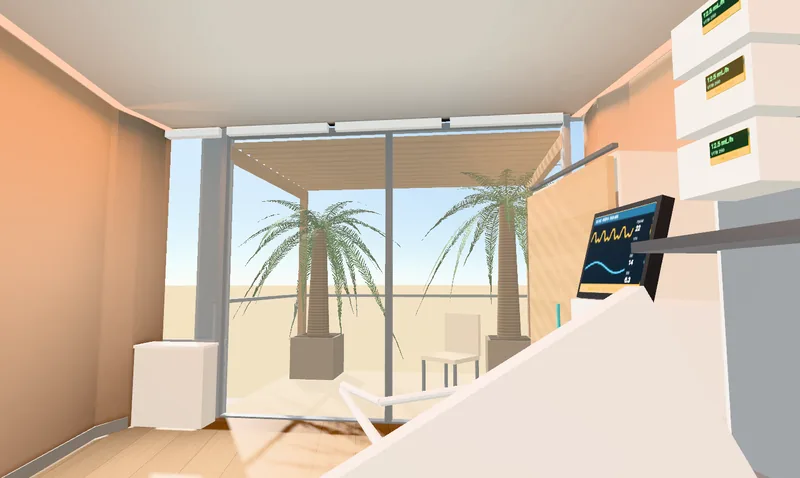
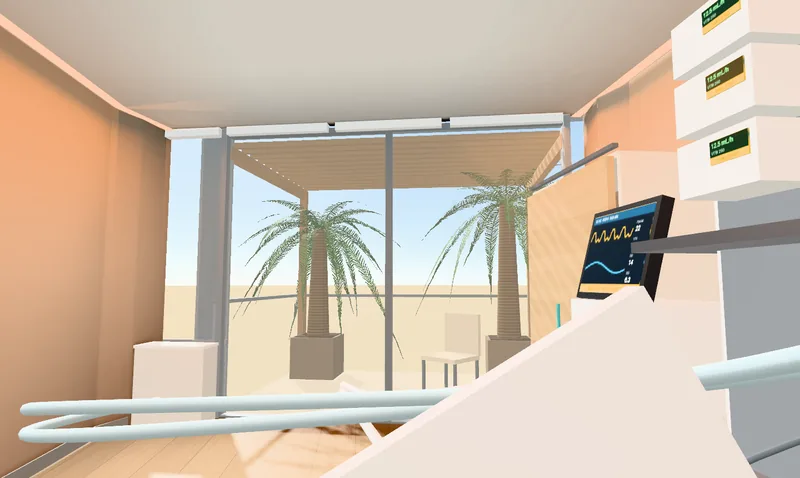
Keep the wall comfort control when the grilles are hidden
The ventilation add-on built the ceiling grilles and the wall "Room comfort
control" together, so hiding the grilles took the control away too. That
left the Comfort systems temperature demo tinting a light nobody could see,
and PACS without its environmental-control connection point.

The control is now its own add-on, shown in every room and not an option.
PACS and the temperature demo look for it there. 08 checks it's present
while the grilles stay hidden, and that the demo still tints it.

The home page's room shots now include the teammate's patient figure, so
their alt text says so.

Changed region(s): [[0.0, 0.7908, 0.5625, 0.9372], [0.8438, 0.7029, 1.0, 0.8201], [0.9375, 0.9079, 1.0, 0.9665]]

diff --git a/index.html b/index.html
@@ -115,15 +115,15 @@
     </div>
     <div class="plates">
       <figure class="plate full">
-        <a href="configurator/#c=1004415101110000001000030000000000010"><img src="assets/img/config-desert-1440.webp" srcset="assets/img/config-desert-800.webp 800w, assets/img/config-desert-1400.webp 1400w, assets/img/config-desert-1440.webp 1440w" sizes="100vw" width="1440" height="860" alt="The room configurator showing an isolation room at night in the Desert Sanctuary theme: warm cove light around the ceiling, a mashrabiya feature wall and light timber floor, with a panel of options on the right." loading="lazy" decoding="async"></a>
+        <a href="configurator/#c=1004415101110000001000030000000000010"><img src="assets/img/config-desert-1440.webp" srcset="assets/img/config-desert-800.webp 800w, assets/img/config-desert-1400.webp 1400w, assets/img/config-desert-1440.webp 1440w" sizes="100vw" width="1440" height="860" alt="The room configurator showing an isolation room at night in the Desert Sanctuary theme: warm cove light around the ceiling, a mashrabiya feature wall and light timber floor, a teaching figure of a patient in the bed, and a panel of options on the right." loading="lazy" decoding="async"></a>
         <figcaption>Desert Sanctuary at night, with its cove lighting. The panel lists every option.</figcaption>
       </figure>
       <figure class="plate half">
-        <a href="configurator/#c=1103001000200000000000000000000000010"><img src="assets/img/config-calm-1440.webp" srcset="assets/img/config-calm-800.webp 800w, assets/img/config-calm-1400.webp 1400w, assets/img/config-calm-1440.webp 1440w" sizes="(min-width: 720px) 50vw, 100vw" width="1440" height="860" alt="A standard room in the Calm Clinical theme by day: a teal recliner and an IV pole in front, the bed with its backrest raised beside the ceiling pendant, a TV on a wood feature wall, and palms outside the window" loading="lazy" decoding="async"></a>
+        <a href="configurator/#c=1103001000200000000000000000000000010"><img src="assets/img/config-calm-1440.webp" srcset="assets/img/config-calm-800.webp 800w, assets/img/config-calm-1400.webp 1400w, assets/img/config-calm-1440.webp 1440w" sizes="(min-width: 720px) 50vw, 100vw" width="1440" height="860" alt="A standard room in the Calm Clinical theme by day: a teal recliner and an IV pole in front, a teaching figure of a patient in the bed with its backrest raised beside the ceiling pendant, a TV on a wood feature wall, and palms outside the window" loading="lazy" decoding="async"></a>
         <figcaption>Calm Clinical: today's standard room, tidied up, by day.</figcaption>
       </figure>
       <figure class="plate half">
-        <a href="configurator/#c=1143022101010000000210130000100000010"><img src="assets/img/config-patio-1440.webp" srcset="assets/img/config-patio-800.webp 800w, assets/img/config-patio-1400.webp 1400w, assets/img/config-patio-1440.webp 1440w" sizes="(min-width: 720px) 50vw, 100vw" width="1440" height="860" alt="The view from the bed in a standard room in the Family Suite theme, turned toward a sliding door and a shaded balcony with palms in planters." loading="lazy" decoding="async"></a>
+        <a href="configurator/#c=1143022101010000000210130000100000010"><img src="assets/img/config-patio-1440.webp" srcset="assets/img/config-patio-800.webp 800w, assets/img/config-patio-1400.webp 1400w, assets/img/config-patio-1440.webp 1440w" sizes="(min-width: 720px) 50vw, 100vw" width="1440" height="860" alt="The patient's view from the bed in a standard room in the Family Suite theme, turned toward a sliding door and a shaded balcony with palms in planters, past the bed rail and the infusion pumps." loading="lazy" decoding="async"></a>
         <figcaption>Family Suite: what the patient sees with their head turned, toward the patio and palms.</figcaption>
       </figure>
     </div>

diff --git a/scripts/site/index.template.html b/scripts/site/index.template.html
@@ -115,15 +115,15 @@
     </div>
     <div class="plates">
       <figure class="plate full">
-        <a href="configurator/#c={{CODE_DESERT}}"><!--SHOT config-desert | The room configurator showing an isolation room at night in the Desert Sanctuary theme: warm cove light around the ceiling, a mashrabiya feature wall and light timber floor, with a panel of options on the right. | 100vw--></a>
+        <a href="configurator/#c={{CODE_DESERT}}"><!--SHOT config-desert | The room configurator showing an isolation room at night in the Desert Sanctuary theme: warm cove light around the ceiling, a mashrabiya feature wall and light timber floor, a teaching figure of a patient in the bed, and a panel of options on the right. | 100vw--></a>
         <figcaption>Desert Sanctuary at night, with its cove lighting. The panel lists every option.</figcaption>
       </figure>
       <figure class="plate half">
-        <a href="configurator/#c={{CODE_CALM}}"><!--SHOT config-calm | A standard room in the Calm Clinical theme by day: a teal recliner and an IV pole in front, the bed with its backrest raised beside the ceiling pendant, a TV on a wood feature wall, and palms outside the window | (min-width: 720px) 50vw, 100vw--></a>
+        <a href="configurator/#c={{CODE_CALM}}"><!--SHOT config-calm | A standard room in the Calm Clinical theme by day: a teal recliner and an IV pole in front, a teaching figure of a patient in the bed with its backrest raised beside the ceiling pendant, a TV on a wood feature wall, and palms outside the window | (min-width: 720px) 50vw, 100vw--></a>
         <figcaption>Calm Clinical: today's standard room, tidied up, by day.</figcaption>
       </figure>
       <figure class="plate half">
-        <a href="configurator/#c={{CODE_PATIO}}"><!--SHOT config-patio | The view from the bed in a standard room in the Family Suite theme, turned toward a sliding door and a shaded balcony with palms in planters. | (min-width: 720px) 50vw, 100vw--></a>
+        <a href="configurator/#c={{CODE_PATIO}}"><!--SHOT config-patio | The patient's view from the bed in a standard room in the Family Suite theme, turned toward a sliding door and a shaded balcony with palms in planters, past the bed rail and the infusion pumps. | (min-width: 720px) 50vw, 100vw--></a>
         <figcaption>Family Suite: what the patient sees with their head turned, toward the patio and palms.</figcaption>
       </figure>
     </div>

diff --git a/configurator/addons.js b/configurator/addons.js
@@ -314,12 +314,11 @@ Object.assign(BUILD, {
     return g;
   },
 
-  /** Quiet, static supply and return grilles plus a wall control; no simulated airflow. */
+  /** Quiet, static supply and return grilles; no simulated airflow. Hidden for now: see the ventilation group in options.json. */
   ventilation(room) {
     const g = new THREE.Group(), H = room.meta.ceiling;
     g.name = "addon_ventilation";
-    const panel = std("#e4e8e7", 0.62), slat = std("#a3abad", 0.5), light = std("#4aaeb2", 0.35, { emissive: "#4aaeb2", emissiveIntensity: 0.45 });
-    light.name = "vent_status";
+    const panel = std("#e4e8e7", 0.62), slat = std("#a3abad", 0.5);
     const NAMES = { supply: "Ceiling supply grille", return: "Ceiling return grille", exhaust: "Ceiling exhaust grille" };
     // the same grilles as the floor's ventilation concept plan, from the room's data
     for (const v of room.meta.vents) {
@@ -332,10 +331,22 @@ Object.assign(BUILD, {
         fin.position.copy(W2T(x, y - d * 0.36 + (d * 0.72 * i) / (slots - 1), H - 0.014)); g.add(fin);
       }
     }
+    return g;
+  },
+
+  /**
+   * The wall control for the Comfort systems demo, and one of PACS's connection points. Always shown: it used to come
+   * with the grilles, and stays when they're hidden.
+   */
+  comfortControl(room) {
+    const g = new THREE.Group();
+    g.name = "addon_comfortControl";
+    const light = std("#4aaeb2", 0.35, { emissive: "#4aaeb2", emissiveIntensity: 0.45 });
+    light.name = "comfort_status"; // the Comfort systems temperature slider tints it
     const wall = room.label === "W1" ? [17.78, 30.85] : [14.40, 21.4];
     const control = tagItem(box(0.19, 0.24, 0.035, std("#e6e9e7", 0.48), 0, 0, 0), "Room comfort control", "A wall-mounted temperature and humidity control concept. It is not connected to room equipment or patient measurements.");
     control.position.copy(W2T(wall[0], wall[1], 1.55)); control.rotation.y = Math.PI / 2; g.add(control);
-    const led = tagItem(ball(0.025, light, 0, 0, 0), "Ventilation status light", "An illustrative status light for the room comfort concept.");
+    const led = tagItem(ball(0.025, light, 0, 0, 0), "Comfort control status light", "An illustrative status light for the room comfort concept. The Comfort systems temperature demo changes its colour.");
     led.position.copy(W2T(wall[0] - 0.045, wall[1], 1.61)); g.add(led);
     return g;
   },

diff --git a/scripts/site/configurator/addons.js b/scripts/site/configurator/addons.js
@@ -314,12 +314,11 @@ Object.assign(BUILD, {
     return g;
   },
 
-  /** Quiet, static supply and return grilles plus a wall control; no simulated airflow. */
+  /** Quiet, static supply and return grilles; no simulated airflow. Hidden for now: see the ventilation group in options.json. */
   ventilation(room) {
     const g = new THREE.Group(), H = room.meta.ceiling;
     g.name = "addon_ventilation";
-    const panel = std("#e4e8e7", 0.62), slat = std("#a3abad", 0.5), light = std("#4aaeb2", 0.35, { emissive: "#4aaeb2", emissiveIntensity: 0.45 });
-    light.name = "vent_status";
+    const panel = std("#e4e8e7", 0.62), slat = std("#a3abad", 0.5);
     const NAMES = { supply: "Ceiling supply grille", return: "Ceiling return grille", exhaust: "Ceiling exhaust grille" };
     // the same grilles as the floor's ventilation concept plan, from the room's data
     for (const v of room.meta.vents) {
@@ -332,10 +331,22 @@ Object.assign(BUILD, {
         fin.position.copy(W2T(x, y - d * 0.36 + (d * 0.72 * i) / (slots - 1), H - 0.014)); g.add(fin);
       }
     }
+    return g;
+  },
+
+  /**
+   * The wall control for the Comfort systems demo, and one of PACS's connection points. Always shown: it used to come
+   * with the grilles, and stays when they're hidden.
+   */
+  comfortControl(room) {
+    const g = new THREE.Group();
+    g.name = "addon_comfortControl";
+    const light = std("#4aaeb2", 0.35, { emissive: "#4aaeb2", emissiveIntensity: 0.45 });
+    light.name = "comfort_status"; // the Comfort systems temperature slider tints it
     const wall = room.label === "W1" ? [17.78, 30.85] : [14.40, 21.4];
     const control = tagItem(box(0.19, 0.24, 0.035, std("#e6e9e7", 0.48), 0, 0, 0), "Room comfort control", "A wall-mounted temperature and humidity control concept. It is not connected to room equipment or patient measurements.");
     control.position.copy(W2T(wall[0], wall[1], 1.55)); control.rotation.y = Math.PI / 2; g.add(control);
-    const led = tagItem(ball(0.025, light, 0, 0, 0), "Ventilation status light", "An illustrative status light for the room comfort concept.");
+    const led = tagItem(ball(0.025, light, 0, 0, 0), "Comfort control status light", "An illustrative status light for the room comfort concept. The Comfort systems temperature demo changes its colour.");
     led.position.copy(W2T(wall[0] - 0.045, wall[1], 1.61)); g.add(led);
     return g;
   },

diff --git a/configurator/main.js b/configurator/main.js
@@ -142,7 +142,9 @@ async function setRoom(label, { keepView = true } = {}) {
   daylight.setCentre((room.meta.room[0] + room.meta.room[2]) / 2, (room.meta.room[1] + room.meta.room[3]) / 2);
   lighting.setRoom(room);
   glass.setRoom(room);
+  setAddon(room, "comfortControl", true); // not an option: the wall control is always there
   applyAll();
+  setDemoReadout();
   relight();
   rig.view = null;
   rig.go(keepView ? state.view : "overview", { instant: true });
@@ -397,8 +399,8 @@ function setDemoReadout() {
   $("demoTempValue").textContent = `${temp} °C`;
   $("demoHumidityValue").textContent = `${humidity}%`;
   const tint = temp < 22 ? "#63aecd" : temp > 25 ? "#df9762" : "#4aaeb2";
-  for (const mesh of stage.current?.parts.addon_ventilation || []) {
-    for (const mat of [mesh.material].flat()) if (mat?.name === "vent_status") mat.color.set(tint);
+  for (const mesh of stage.current?.parts.addon_comfortControl || []) {
+    for (const mat of [mesh.material].flat()) if (mat?.name === "comfort_status") mat.color.set(tint);
   }
   invalidate();
 }
@@ -725,6 +727,7 @@ window.__config = {
   options: () => optionData,
   partNames: () => Object.keys(stage.current.parts),
   roomVents: () => rig.meta.vents,
+  comfortTint: () => { let hex = null; for (const m of stage.current.parts.addon_comfortControl || []) for (const mat of [m.material].flat()) if (mat?.name === "comfort_status") hex = mat.color.getHexString(); return hex; },
   ventPlates: () => { let n = 0; stage.current.addons?.ventilation?.traverse(o => { if (/grille/.test(o.userData.itemInfo?.title || "")) n += 1; }); return n; },
   profile: answers => resolveProfile(optionData, answers),
   fading: () => glass.fading,

diff --git a/scripts/site/configurator/main.js b/scripts/site/configurator/main.js
@@ -142,7 +142,9 @@ async function setRoom(label, { keepView = true } = {}) {
   daylight.setCentre((room.meta.room[0] + room.meta.room[2]) / 2, (room.meta.room[1] + room.meta.room[3]) / 2);
   lighting.setRoom(room);
   glass.setRoom(room);
+  setAddon(room, "comfortControl", true); // not an option: the wall control is always there
   applyAll();
+  setDemoReadout();
   relight();
   rig.view = null;
   rig.go(keepView ? state.view : "overview", { instant: true });
@@ -397,8 +399,8 @@ function setDemoReadout() {
   $("demoTempValue").textContent = `${temp} °C`;
   $("demoHumidityValue").textContent = `${humidity}%`;
   const tint = temp < 22 ? "#63aecd" : temp > 25 ? "#df9762" : "#4aaeb2";
-  for (const mesh of stage.current?.parts.addon_ventilation || []) {
-    for (const mat of [mesh.material].flat()) if (mat?.name === "vent_status") mat.color.set(tint);
+  for (const mesh of stage.current?.parts.addon_comfortControl || []) {
+    for (const mat of [mesh.material].flat()) if (mat?.name === "comfort_status") mat.color.set(tint);
   }
   invalidate();
 }
@@ -725,6 +727,7 @@ window.__config = {
   options: () => optionData,
   partNames: () => Object.keys(stage.current.parts),
   roomVents: () => rig.meta.vents,
+  comfortTint: () => { let hex = null; for (const m of stage.current.parts.addon_comfortControl || []) for (const mat of [m.material].flat()) if (mat?.name === "comfort_status") hex = mat.color.getHexString(); return hex; },
   ventPlates: () => { let n = 0; stage.current.addons?.ventilation?.traverse(o => { if (/grille/.test(o.userData.itemInfo?.title || "")) n += 1; }); return n; },
   profile: answers => resolveProfile(optionData, answers),
   fading: () => glass.fading,

diff --git a/configurator/pacs-scene.js b/configurator/pacs-scene.js
@@ -27,7 +27,7 @@ export class PacsRoom {
     const centre = name => { const b = new THREE.Box3(); (room.parts[name] || []).forEach(o => b.expandByObject(o)); return b.isEmpty() ? null : b.getCenter(new THREE.Vector3()); };
     const monitor = centre("cfg_kit_monitor");
     const light = room.meta.panels?.[0];
-    const comfortControl = (room.parts.addon_ventilation || []).find(n => n.userData.itemInfo?.title === "Room comfort control");
+    const comfortControl = (room.parts.addon_comfortControl || []).find(n => n.userData.itemInfo?.title === "Room comfort control");
     const targets = {
       monitor, patient: room.patient.worldAnchor("ecg"),
       lights: light ? new THREE.Vector3(light[0], room.meta.ceiling - 0.08, -light[1]) : centre("cfg_panels"),

diff --git a/scripts/site/configurator/pacs-scene.js b/scripts/site/configurator/pacs-scene.js
@@ -27,7 +27,7 @@ export class PacsRoom {
     const centre = name => { const b = new THREE.Box3(); (room.parts[name] || []).forEach(o => b.expandByObject(o)); return b.isEmpty() ? null : b.getCenter(new THREE.Vector3()); };
     const monitor = centre("cfg_kit_monitor");
     const light = room.meta.panels?.[0];
-    const comfortControl = (room.parts.addon_ventilation || []).find(n => n.userData.itemInfo?.title === "Room comfort control");
+    const comfortControl = (room.parts.addon_comfortControl || []).find(n => n.userData.itemInfo?.title === "Room comfort control");
     const targets = {
       monitor, patient: room.patient.worldAnchor("ecg"),
       lights: light ? new THREE.Vector3(light[0], room.meta.ceiling - 0.08, -light[1]) : centre("cfg_panels"),

diff --git a/scripts/08_check_configurator.py b/scripts/08_check_configurator.py
@@ -588,6 +588,11 @@ with sync_playwright() as p:
         go(pg, room)
         names = pg.evaluate("window.__config.partNames()")
         check(not [n for n in names if n.startswith("vent_")], f"{room}: the floor's grilles aren't in the room model, so it has one set")
+        # the grilles are hidden, but the wall control they used to come with isn't: the Comfort systems demo and PACS both use it
+        check("addon_comfortControl" in names and "addon_ventilation" not in names, f"{room}: the wall comfort control is there and the grilles aren't")
+        pg.evaluate("document.getElementById('demoTemp').value = 19; document.getElementById('demoTemp').dispatchEvent(new Event('input'))")
+        tint = pg.evaluate("window.__config.comfortTint()")
+        check(tint == "63aecd", f"{room}: the temperature demo tints the control's status light ({tint})")
         here = pg.evaluate("window.__config.roomVents()")
         check(len(here) > 0 and all(by_id.get(v["id"], {}).get("at") == v["at"] for v in here), f"{room}: its {len(here)} grilles are the plan's own")
         pg.evaluate("window.__config.set('ventilation', 'on')")
